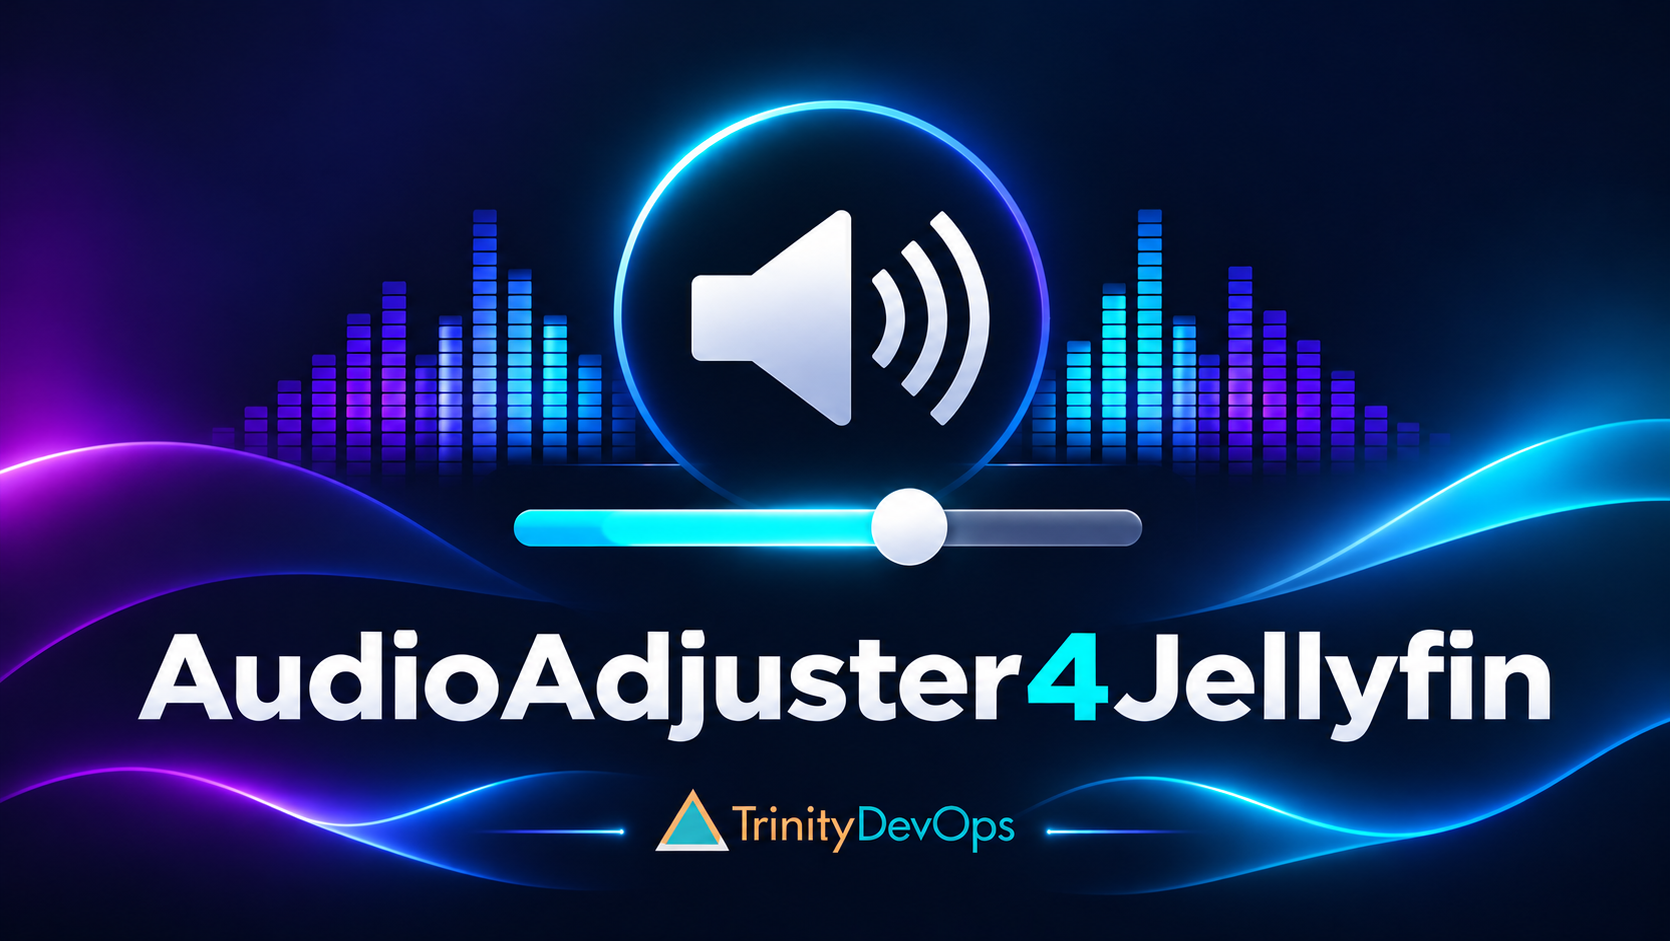
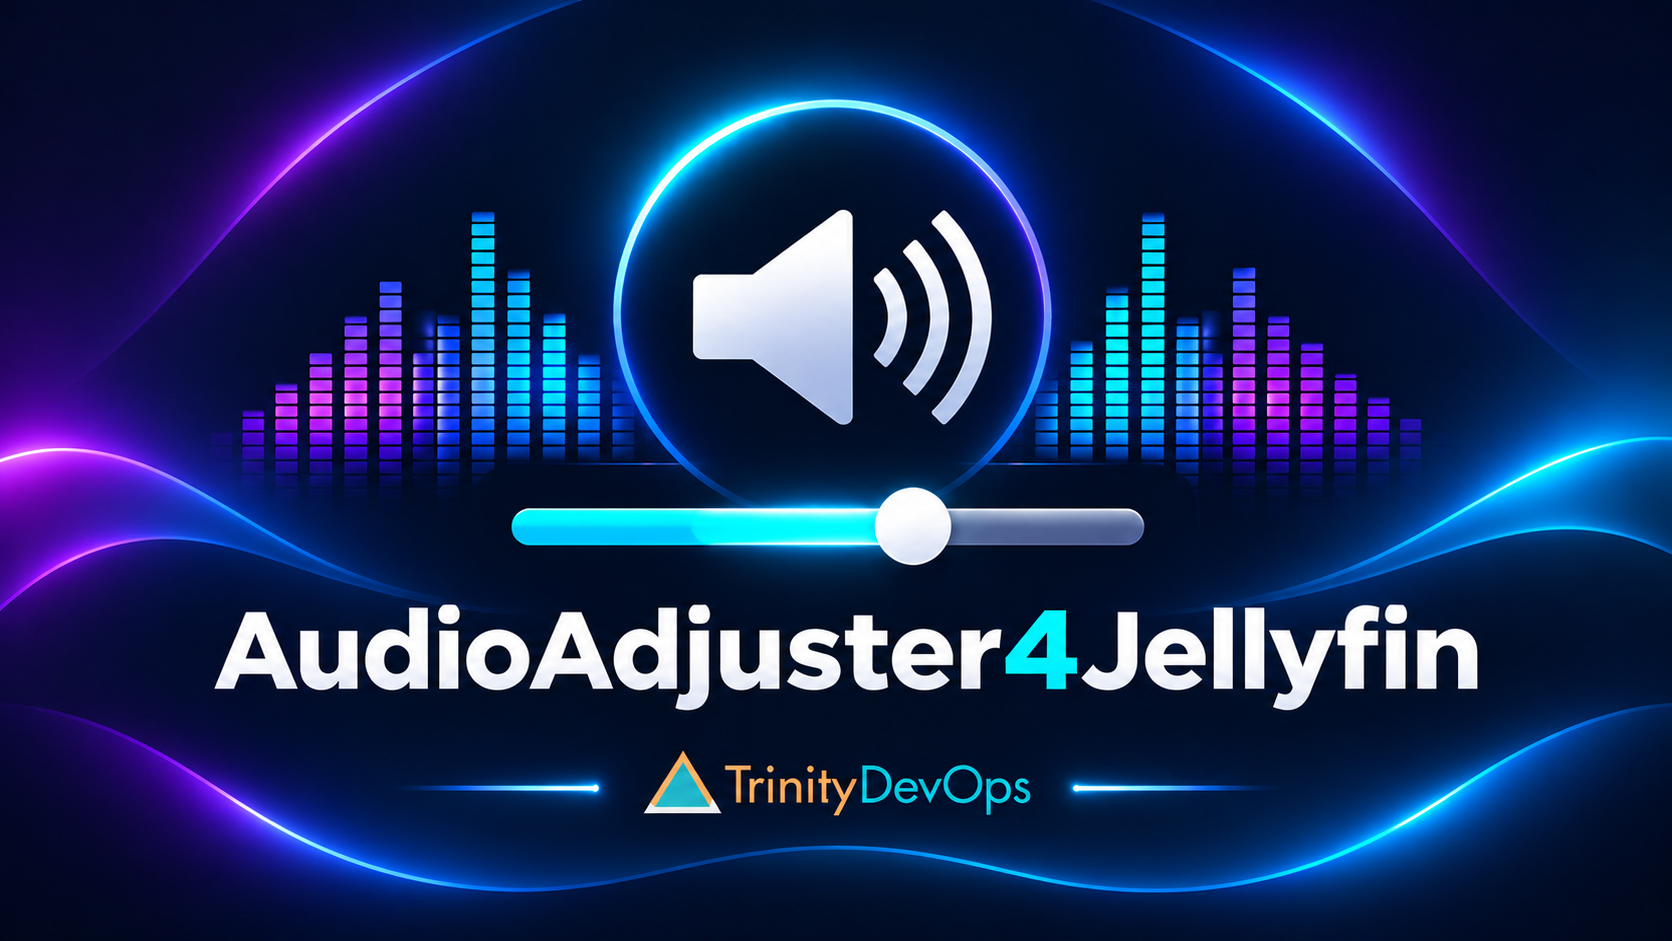
hore(release): prepare v1.1.1 and refresh the catalog thumbnail

diff --git a/CHANGELOG.md b/CHANGELOG.md
@@ -1,5 +1,9 @@
 # Changelog
 
+## 1.1.1
+
+- Refresh the Jellyfin plugin catalog thumbnail.
+
 ## 1.1.0
 
 - Add a thumbnail to the Jellyfin plugin catalog.
